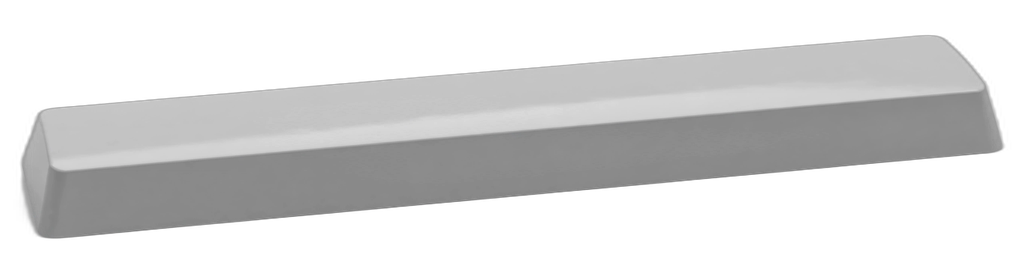
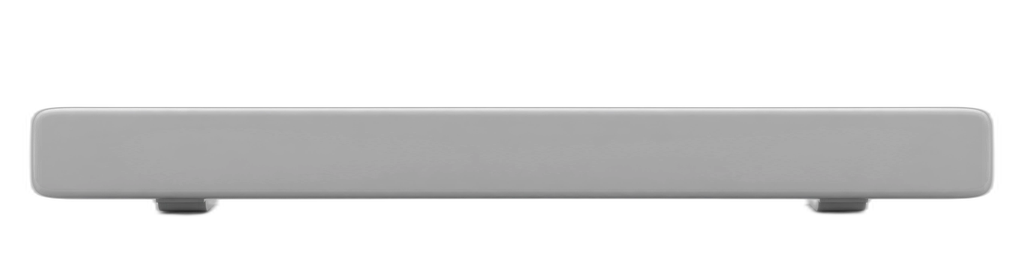
增补-38-批76素材：5 张空格条按正视水平重生（同名替换）＋设计稿

diff --git a/docs/designs/26-增补-38-批76-空格键校平与落字逐台对齐＋字盘区参数化.md b/docs/designs/26-增补-38-批76-空格键校平与落字逐台对齐＋字盘区参数化.md
@@ -1,0 +1,122 @@
+# 26-增补-38-批76-空格键校平与落字逐台对齐＋字盘区参数化
+
+> 批 76。基于最新提交 `5202c15`（批 75 补记）与批 75 截图 2342–2346 的实测分析。
+> 用户原话（2026-11-22）：“①除了我们已经调好的版本，其他的所有键盘的空格键都是歪的，并且很多键盘连落字的地方都没有对齐键帽，而是落到了键帽的侧面，需要逐个进行优化，并且是以自适应方式进行的，确保一次适配就可以适应各种分辨率②字盘区域的素材依然是固定的，这个不行，需要分析下怎么进行设计比较好”
+
+## 0. 实测结论（截图＋代码双证，全部复核过）
+
+### 0.1 空格键歪：实测倾角（平板截图 2342–2346，PIL 量顶边）
+
+| 机型 | 空格条顶边倾角 | 左右端高差（≈1000px 跨度） |
+|---|---|---|
+| 1920s | −2.25° | 53px |
+| 1930s | −1.57° | 24px |
+| 1950s | 目测歪（井底奶油色，亮度阈值量不到） | — |
+| 1960s | −3.10° | 110px |
+| 2020s | −3.28° | 116px |
+
+倾角为负＝右端高于左端（条向右上斜）。**五台全歪**，不是某台个别问题。
+
+**根因（素材，不在代码）**：`cap3d-space-<era>.png` 是三维透视渲染——生成时用了“斜上方三刻度视角”，条身在图里本身就是斜的（向远端收拢、一端高一端低）。`KeyGrid` 用九宫格（`resizable slice left:64 right:64 top:6 bottom:6`）只拉中间段，**拉伸不改倾角**，斜的图拉完还是斜的。代码的九宫格本身没错，错的是源图里条就不平。
+
+**修法（素材重生，已做）**：五张空格条按“正视、平视、无透视、条身绝对水平”重生（`cap3d-space-<era>.png` 同名替换，见 §1）。新图实测倾角全部 ≤0.05°（1920s −0.02°／1930s −0.02°／1950s 0.00°／1960s 0.04°／2020s −0.05°），抠图白边 0–228px（rembg u2net，见 §1）。**代码不用改九宫格**，换图即平。
+
+**自适应口径**：空格条的平直是素材属性（图里就是平的），与分辨率无关；九宫格的 slice（left/right 64px）是图内比例，盒宽由布局量（kx、stage 宽）派生，换分辨率自动跟。**不要在代码里给空格条加旋转修正**（那是给歪图打补丁，换图后反而会把平图转歪）。
+
+### 0.2 落字不对齐：`KB_LEGEND_UP = 5.0` 一个值管五种帽形，必然错
+
+**代码实情**（`KeyGrid.ets` 第 30 行）：`const KB_LEGEND_UP: number = 5.0;`——图例 Text 先在盒内居中，再统一上移 5vp（第 415／426／434 行三处同值）。这 5vp 是给**一种**帽形调的，但五台帽的顶面高度各不相同：
+
+**顶面中心实测**（键帽源图 503×512，顶面中心 y 占图高的比例；目测＋亮区质心双法对过）：
+
+| 机型 | 帽形 | 顶面中心 y 占比 | 应有上移比 `(0.5 − 占比)` | 平板应有上移（帽高 51.3vp） |
+|---|---|---|---|---|
+| 1920s | 高圆（立式机经典圆键） | ≈0.215 | 0.285 | ≈14.6vp |
+| 1930s | 中圆（便携机） | ≈0.254 | 0.246 | ≈12.6vp |
+| 1950s | 低圆盘（流线型） | ≈0.352 | 0.148 | ≈7.6vp |
+| 1960s | 方角（电动机方键） | ≈0.313 | 0.187 | ≈9.6vp |
+| 2020s | 扁平方（现代） | ≈0.371 | 0.129 | ≈6.6vp |
+
+**对照**：现行统一 5.0vp。1920s 的图例实际落在顶面底缘、几乎贴到侧壁（调试图红线＝图例线，正好压在 1920s 顶面下缘；见 `~/workspace/carriagereturn-assets/debug-legend-strip.jpg`），这就是用户说的“落字落到了键帽的侧面”。1950s／2020s 的偏差小（仍在顶面上、略偏下），1960s／1930s 居中偏下。
+
+**修法（代码，按机型分比，见 §2）**：把 `KB_LEGEND_UP` 从常量改成**按机型的比例** `legendUpRatio[machine]`（上表第三列），图例上移量＝`legendUpRatio × 帽盒高`。帽盒高由布局量派生（`KB_CAP_H × kx()`），所以上移量自动随分辨率缩放——**一次适配，全分辨率通用**，不写死任何设备的 vp 数。比例值以本表为准，桌面端按截图验收微调（见 §4），不要凭感觉改回固定值。
+
+**附带注意（不修，但要知道）**：键帽图用 `ImageFit.Fill`（`KeyGrid` 第 341 行起），盒比 40.1:51.3（0.78）与图比 503:512（0.98）不一致，纵向多拉约 26%。Fill 是 binding 明文禁的，但本批不动它（改 Contain 会改键帽尺寸与布局，另立批）。比例法算出的上移量是**纵向比例**，Fill 是均匀纵向拉伸，不改变纵向比例，所以上表比例在 Fill 下仍然成立。
+
+### 0.3 字盘区素材固定：`fanwell-back-v2.png`＋`basket-fan-*.png` 两张定图
+
+**代码实情**（`Parts26.ets` 第 400–410 行附近，`Basket26` 的 `build()`）：
+- 井背：`fanwell-back-v2.png`（预渲染贴图：纵向渐变＋7 道杆影），`ImageFit.Contain`，全机共用一张。
+- 扇：`basketFanImage(machine, fanWide)`（`basket-fan-*.png` 定图，每台一张），盒宽×kx、盒高＝盒宽／图比。
+- 枢轴／井口软影：代码画（Column／Row＋linearGradient），已是参数化，不动。
+
+**为什么“固定”不行（已有实锤）**：批 75 补记 `5202c15`——“扇区浅薄荷绿块根因＝`fanwell-back-v2.png` 预渲染井背图未随 base 重生成”。定图跟不上机型色（base 改了，井背图还是旧色，露出一块浅薄荷绿）；定图也跟不上井尺寸（换分辨率只是等比缩放，杆影间距、渐变位置与井的真实几何脱节）。字盘区是“机器的心脏”，定图是这块最不该定图的地方。
+
+## 1. 本批素材（沙箱已推，核对后再做）
+
+- `entry/src/main/resources/rawfile/ui-parts/cap3d-space-{1920s,1930s,1950s,1960s,2020s}.png`（各 1024×270 RGBA，同名替换——新图条身绝对水平，倾角 ≤0.05°；rembg u2net 重抠，白边 0–228px）
+- 若某文件缺失，先报缺（附缺的文件名），不要用旧图顶替、不要自己现画。
+
+## 2. 代码改动 A：图例按机型分比（`KeyGrid.ets`）
+
+1. 删常量 `KB_LEGEND_UP = 5.0`（或保留作废弃注释），新增按机型查表：
+   - `legendUpRatio(machine)`：1920s `0.285`／1930s `0.246`／1950s `0.148`／1960s `0.187`／2020s `0.129`。
+   - 查表方式沿用 `MachineCatalog` 的既有风格（`tierToken` 那种按机型分支），不要另起一套机型枚举。
+2. 三处图例 `.translate({ y: -KB_LEGEND_UP })`（第 415／426／434 行：普通键双行、SHIFT LOCK、单行）统一改成 `.translate({ y: -legendUpRatio(this.machineKind) * KB_CAP_H * this.kx() })`。
+   - 必须是**比例 × 帽盒高**（`KB_CAP_H × kx()`），不要写死 vp 数；不要按设备分支（不要 `if (平板) … else …`）。
+3. 空格条九宫格不动（slice 仍 `left:64 right:64 top:6 bottom:6`）；不要给空格条加旋转。
+
+## 3. 代码改动 B：字盘区参数化（`Parts26.ets`，`Basket26`）
+
+**目标**：字盘区不再用定图；井背与扇全部由布局量派生，换机型、换分辨率自动跟。
+
+### 3.1 井背：代码画（替掉 `fanwell-back-v2.png`）
+
+- 删 `fanwell-back-v2.png` 的 Image 节点（文件留仓，不删图）。
+- 改成两层代码元素（都在井的 Stack 内，位置与尺寸沿用现行井盒）：
+  1. **纵向渐变**：Column，`linearGradient`，方向 Bottom（上亮下暗，沿用定图的明暗走向）；颜色从 `tierToken(machine,'base')` 与 `tierToken(machine,'paperwell')` 派生（上＝paperwell 浅、下＝base 深，中间按明度插值），不要写死色值——这样 base 改色，井背自动跟（根治 `5202c15` 的浅薄荷绿块）。
+  2. **杆影**：N 道细竖条（Column，宽 `1.5×sx`、高＝井高、黑 8%–12% 透明、圆角），横向均匀排布；道数 N 与间距由井宽派生（`N = max(5, floor(井宽 / 30vp))`，间距＝井宽／(N＋1)），不要写死 7 道、不要写死间距。杆影只画在井背层，不压扇。
+- 渐变与杆影的色值、透明度以批 40 定图的观感为准（上亮下暗、杆影淡），不要另创新观感。
+
+### 3.2 扇（字杆扇）：逐杆代码画（替掉 `basket-fan-*.png`）
+
+- 删 `basketFanImage(this.machine, this.fanWide)` 的 Image 节点（文件留仓，不删图；`basketFanImage()` 函数本身不动，留给以后或别的调用点）。
+- 改成 **N 根字杆**（每根一个组件），全部由井的几何派生：
+  - **枢轴**：井底中央（现行枢轴位置不变，`x＝井宽/2`，`y＝井高−1vp` 附近）。
+  - **每根字杆**：一个细长 Column（宽 `2.5×sx`、长＝井高×0.82，钢色 `linearGradient` 沿用 `STEEL_HI`→`#4c4c4f`，与现行枢轴同系），顶端一个小字钉（圆角矩形，`6×sx` 见方，`tierToken(machine,'steel')` 色，上面一个字母 Text，字号 `7×sx`——字母从现行扇图的字钉字母取，顺序沿用扇图从左到右的顺序）。
+  - **排布**：根数 N 与井宽同 §3.1 的 N（同一组杆影对齐字杆，一一对应）；第 i 根的角 `θ_i ＝ startAngle ＋ i × stepAngle`，`startAngle ＝ −38°`，`stepAngle ＝ 76°／(N−1)`（扇面总张角 76°，沿用现行扇图的张角观感）；每根绕枢轴旋转 `θ_i`（`.rotate({ angle: θ_i })`，旋转中心＝杆底＝枢轴点），杆底固定在枢轴、杆顶沿扇面散开。
+  - **机型区分**：杆的钢色、字钉色、字钉字母由 `machineKind` 派生（钢色＝`tierToken(machine,'steel')`，字钉座色＝`tierToken(machine,'base')` 的明度派生）；不要每台另画一套扇图。
+- **Shift 抬扇**：整组字杆（一个 Stack 包住 N 根）沿用现行 `.translate({ y: shiftLiftVp })`（−10vp）＋弹簧动画，不要改。
+- **宽／窄**：`fanWide` 的宽窄分支沿用现行盒宽逻辑（`fanW26()`／`fanH26()`），字杆组装进同一盒，N 与张角按盒宽重算（宽盒 N 大、窄盒 N 小），不要写死 N。
+
+### 3.3 不动的部分
+
+- 枢轴（井底中央的 Column／Row＋铆钉）不动。
+- 井口曲线、井口软影、井的圆角与 clip 不动。
+- 盖面、纸、键盘井不动。
+
+## 4. 验收（截图号从 2348 起，平板优先）
+
+算过＝同时满足：
+
+1. **空格条平**：打字页（平板）切到每台机，空格条顶边水平（PIL 量倾角 ≤0.5°，左右端高差 ≤5px／1000px 跨度）；五台全过。不要只凭肉眼，量了再报。
+2. **图例居中**：打字页（平板）切到每台机，每行抽 3 个键（数字行、Q 行、A 行各一），图例字母居于该键顶面中央（顶面内，不压侧壁、不出顶面）；五台全过。1920s 重点验（原先最偏）。
+3. **字盘区跟机型**：打字页（平板）切到每台机，井背渐变色与该机 base／paperwell 一致（无浅薄荷绿块、无旧色残留）；字杆扇面均匀、杆顶字钉字母清晰、杆底收束于枢轴；五台全过。
+4. **字盘区跟尺寸**：手机抽查 1 台（任选），井背杆影与字杆数随井宽变、扇面不溢出井口、不留大块空白。
+5. **主链回归**：打字、换纸、回车、Aa 切换、字母／符号切换、Shift 抬扇均正常；抬扇时整组字杆同抬 10vp（不要只抬一半杆）。
+6. **无拉伸**：空格条九宫格 slice 不变；字杆为代码元素，无图比问题；自检写清每台机的 N（杆数）与张角。
+7. **截图**：每台机打字页各 1 张（平板 5 张，手机 1 张抽查）＋字盘区放大 1 张（任选一台，平板），追加到 `docs/evidence/p36/selfcheck.md` 末尾（注明截图号）。
+
+## 5. 提交
+
+- 只对 main 提交，提交前清 `.bak`；提交信息写“批76：空格键校平与落字逐台对齐＋字盘区参数化”。
+- 推完在聊天里报提交 SHA 与自检摘要（每项算过／未过＋截图号）。
+
+## 6. 不要做的事
+
+- 不要给空格条加旋转修正（新图已平）。
+- 不要把图例上移量写死成 vp 数、不要按设备分支。
+- 不要动 `fanwell-back-v2.png` 与 `basket-fan-*.png` 的文件本身（留仓备用，只断引用）。
+- 不要改键帽图的 Fill（另立批）。
+- 不要改引擎／输入法／文档模型／成就／导出／音效。
+- 不要改老机 hero／keyboard／carriage／side 照片（仍是做旧版，后续批重生成）。
